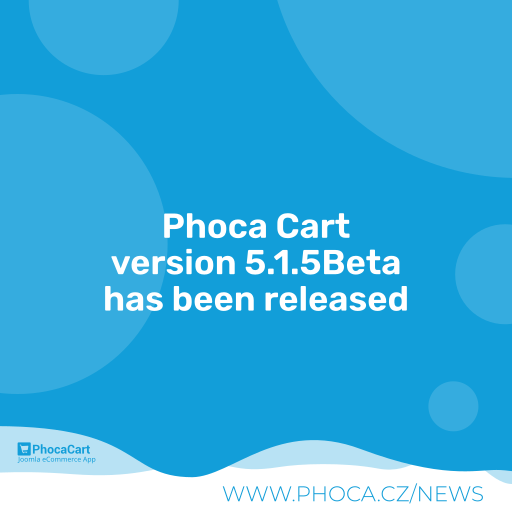
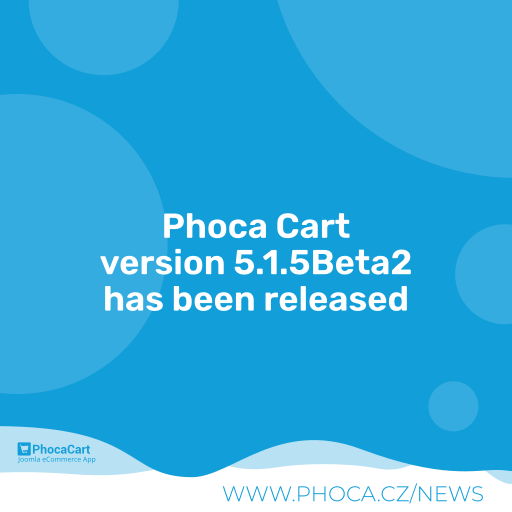
5.1.5Beta2

Changed region(s): [[0.1875, 0.4688, 0.8125, 0.5625]]

diff --git a/media/js/phoca/jquery.phocaattribute.min.js b/media/js/phoca/jquery.phocaattribute.min.js
@@ -1,1 +1,1 @@
-function phChangeAttributeType(e){var t=(e=void 0!==e?".phj"+e:"")+".phjProductAttribute";jQuery(e+".phjCleanAttribute").remove(),jQuery(t).each(function(){let a="",i,r="#phItemAttribute"+jQuery(this).data("attribute-id-name"),u="#phItemHiddenAttribute"+jQuery(this).data("attribute-id-name");var e="#phItemBoxAttribute"+jQuery(this).data("attribute-id-name");let s=jQuery(this).data("attribute-type");var d=jQuery(this).data("type-view");let h=jQuery(this).data("type-icon"),n=jQuery(this).data("required");if(3==s?a="phSelectBoxImage":2==s?a="phSelectBoxButton":13==s&&(a="phSelectBoxText"),""!=a){i=u+" ."+a;let t=jQuery(r).attr("name");var l=jQuery('<input type="hidden" name="'+t+'">');l.val(jQuery(r).val()),l.insertAfter(jQuery(r)),jQuery(u).css("display","block"),jQuery(e).css({display:"visible",position:"absolute",clip:"rect(0,0,0,0)"}),jQuery(e).addClass("phj"+d+" phjCleanAttribute"),jQuery(r+" option").each(function(){if(""!=jQuery(this).val()){let e="";3==s?e=jQuery('<div class="'+a+" "+h+'" data-value="'+jQuery(this).val()+'" data-value-alias="'+jQuery(this).data("value-alias")+'" title="'+jQuery(this).text()+'"><img src="'+jQuery(this).data("image")+'" alt="'+jQuery(this).text()+'" /></div>'):2==s?e=jQuery('<div class="'+a+" "+h+" color-"+jQuery(this).data("color").replace("#","")+'" style="background-color:'+jQuery(this).data("color")+'" data-value="'+jQuery(this).val()+'" data-value-alias="'+jQuery(this).data("value-alias")+'" title="'+jQuery(this).text()+'">&nbsp;</div>'):13==s&&(e=jQuery('<div class="'+a+" "+h+'" data-value="'+jQuery(this).val()+'" data-value-alias="'+jQuery(this).data("value-alias")+'" title="'+jQuery(this).text()+'">'+jQuery(this).text()+"</div>")),jQuery(this).is(":selected")&&e.addClass("on"),jQuery(u).append(e)}}),jQuery(i).on("click",function(e){if(e.preventDefault(),jQuery(this).hasClass("on")){if(1==n)return e.preventDefault(),!1;jQuery(this).removeClass("on"),jQuery('input[name="'+t+'"]').val(""),jQuery(r).val("").change()}else jQuery(i).removeClass("on"),jQuery(this).addClass("on"),jQuery('input[name="'+t+'"]').val(jQuery(this).data("value")),jQuery(r).val(jQuery(this).data("value")).change()})}})}function phAjaxChangeAttributeData(e,t,a,i){var r=Joomla.getOptions("phParamsPC"),u=Joomla.getOptions("phVarsPC").urlCheckoutChangeData,s=[],e=(s.id=e,s.id_item_price="#phItemPriceBox"+t+e,s.id_item_price_gift="#phItemPriceGiftBox"+t+e,s.id_item_stock="#phItemStockBox"+t+e,s.id_item_id="#phItemIdBox"+t+e,s.id_item_name="V"+t+"P"+e,s.product_add_to_cart_item=".phProductAddToCart"+t+e,s.product_add_to_cart_item_icon=".phProductAddToCartIcon"+t+e,s.view=t,s.method_price=r.dynamicChangePrice,s.method_stock=r.dynamicChangeStock,s.method_id=r.dynamicChangeId,s.method_image=r.dynamicChangeImage,s.task="change",s.type="changedata",s.class="ItemQuick"==t||"Pos"==t||"Item"==t?"ph-item-data-box":"ph-category-data-box","id="+s.id+"&"+a+"&"+i+"&class="+s.class+"&typeview="+s.view);phDoRequestMethods(u,e,s)}function phSetAttributeUrl(u){var e=Joomla.getOptions("phParamsPC"),t=Joomla.getOptions("phVarsPC");if(1!=e.dynamicChangeUrlAttributes)return!1;if("item"!=t.view)return!1;t=jQuery(location).attr("hash"),t=phReplaceAll("#","",t);let s=phUrlDeParam(t);t=".phjProductAttribute";let d="",h="",n="";var a=jQuery(t).closest("form").find("input[name=return]");let i="";void 0!==a.val()&&""!=a.val()&&(i=Base64.decode(a.val())),jQuery(t).each(function(){""!=d&&(d+="&");let e=this.id;var t=jQuery(this).data("alias");let a="",i="",r="#phItemHiddenAttribute"+jQuery(this).data("attribute-id-name");1==u?(void 0!==jQuery(this).find(":selected").data("value-alias")&&(a=jQuery(this).find(":selected").data("value-alias"),d=d+"a["+jQuery(this).data("alias")+"]="+a),void 0!==jQuery(this).find(":input:checked").data("value-alias")&&(jQuery.each(jQuery(this).find(":input:checked"),function(){""!=i&&(i+=","),i+=jQuery(this).data("value-alias")}),""!=i)&&(d=d+"a["+jQuery(this).data("alias")+"]="+i)):(void 0!==s.a&&void 0!==t&&void 0!==s.a[t]?(d=d+"a["+jQuery(this).data("alias")+"]="+s.a[t],void 0===(t=s.a[t].split(","))&&0==t.length||(jQuery("#"+e+" option").removeAttr("selected"),jQuery(r+" div").removeClass("on"),jQuery("#"+e+" input").removeAttr("checked"),jQuery(t).each(function(){jQuery("#"+e+" option[data-value-alias='"+this+"']").attr("selected","selected"),jQuery(r+" div[data-value-alias='"+this+"']").addClass("on"),jQuery("#"+e+" input[data-value-alias='"+this+"']").attr("checked","checked"),jQuery("#"+e+" input[data-value-alias='"+this+"']").parent().addClass("active")}))):(void 0!==jQuery(this).find(":selected").data("value-alias")&&(a=jQuery(this).find(":selected").data("value-alias"),d=d+"a["+jQuery(this).data("alias")+"]="+a),void 0!==jQuery(this).find(":input:checked").data("value-alias")&&(jQuery.each(jQuery(this).find(":input:checked"),function(){""!=i&&(i+=","),i+=jQuery(this).data("value-alias")}),""!=i)&&(d=d+"a["+jQuery(this).data("alias")+"]="+i)),h=jQuery(this).data("type-view"),n=jQuery(this).data("product-id"))}),(0!=e.dynamicChangePrice||0!=e.dynamicChangeStock||0!=e.dynamicChangeId||0!=e.dynamicChangeImage&&1!=e.dynamicChangeImage)&&(t=".phjAddToCartV"+h+"P"+n,e=jQuery(t).find("select").serialize(),t=jQuery(t).find(":checkbox").serialize(),phAjaxChangeAttributeData(n,h,e,t)),d.lastIndexOf("&")==d.length-1&&(d=d.slice(0,-1)),(0==u&&""!=d||1==u)&&(d="#"+d,""!=i&&a.val(Base64.encode(i+d)),window.history.pushState({},"",d))}jQuery(document).ready(function(){phChangeAttributeType(),phSetAttributeUrl(0);jQuery(document).on("change","select.phjProductAttribute",function(e){var t=Joomla.getOptions("phParamsPC");if(0==t.dynamicChangePrice&&0==t.dynamicChangeStock&&0==t.dynamicChangeId&&(0==t.dynamicChangeImage||1==t.dynamicChangeImage))return 1==t.dynamicChangeUrlAttributes&&phSetAttributeUrl(1),!1;var t=jQuery(this).data("type-view"),a=jQuery(this).data("product-id"),i=".phjAddToCartV"+t+"P"+a;phAjaxChangeAttributeData(a,t,jQuery(i).find("select").serialize(),jQuery(i).find(":checkbox").serialize()),phSetAttributeUrl(1)});var e=".ph-checkbox-attribute.phjProductAttribute";jQuery(document).on("click",e,function(e){var t=Joomla.getOptions("phParamsPC");if("LABEL"!==e.target.tagName.toUpperCase()){if("svg"==t.theme||"svg"==t.iconType){if("SVG"===e.target.tagName.toUpperCase()||"IMG"===e.target.tagName.toUpperCase())return}else if(!("bs4"!=t.theme&&"bs5"!=t.theme||"SPAN"!==e.target.tagName.toUpperCase()&&"IMG"!==e.target.tagName.toUpperCase()))return;var t=jQuery(this).data("required"),a="#"+jQuery(this).attr("id")+" input:checked",a=jQuery(a).length;if(t&&0==a)return jQuery(e.target).parent().addClass("active"),e.preventDefault(),!1;t="#"+jQuery(this).attr("id")+" input[type='checkbox']",a=jQuery(t);0<a.length&&a.each(function(e){var t=jQuery(this).parent();jQuery(this).is(":checked")?t.addClass("active"):t.removeClass("active")})}}),jQuery(document).on("click",e,function(e){var t=Joomla.getOptions("phParamsPC");if(0!=t.dynamicChangePrice||0!=t.dynamicChangeStock||0!=t.dynamicChangeId||0!=t.dynamicChangeImage&&1!=t.dynamicChangeImage){if("LABEL"!==e.target.tagName.toUpperCase()){if("svg"==t.theme||"svg"==t.iconType){if("SVG"===e.target.tagName.toUpperCase()||"IMG"===e.target.tagName.toUpperCase())return}else if(!("bs4"!=t.theme&&"bs5"!=t.theme||"SPAN"!==e.target.tagName.toUpperCase()&&"IMG"!==e.target.tagName.toUpperCase()))return;var e=jQuery(this).data("product-id"),a=jQuery(this).data("type-view"),i=".phjAddToCartV"+a+"P"+e;phAjaxChangeAttributeData(e,a,jQuery(i).find("select").serialize(),jQuery(i).find(":checkbox").serialize()),phSetAttributeUrl(1)}}else 1==t.dynamicChangeUrlAttributes&&phSetAttributeUrl(1)}),jQuery(".phAOGift").on("input",function(){var t="."+jQuery(this).data("type");if(".phAOGiftType"==t){var a=jQuery(this).data("title"),a=(jQuery(".phAOGiftTitle").text(a),jQuery(this).data("image")),a=(jQuery(".phAOGiftImage").attr("src",a),jQuery(this).data("date"));jQuery(".phAOGiftDate").text(a);let e=jQuery(this).data("description");""!=e&&(e=Base64.decode(e)),jQuery(".phAOGiftDescription").html(e);a=jQuery(this).data("class-name");jQuery(t).attr("class","phAOGiftType ph-gift-voucher-box "+a)}else jQuery(t).text(jQuery(this).val())})});
+function phChangeAttributeType(e){var t=(e=void 0!==e?".phj"+e:"")+".phjProductAttribute";jQuery(e+".phjCleanAttribute").remove(),jQuery(t).each(function(){let a="",i,r="#phItemAttribute"+jQuery(this).data("attribute-id-name"),u="#phItemHiddenAttribute"+jQuery(this).data("attribute-id-name");var e="#phItemBoxAttribute"+jQuery(this).data("attribute-id-name");let s=jQuery(this).data("attribute-type");var d=jQuery(this).data("type-view");let h=jQuery(this).data("type-icon"),n=jQuery(this).data("required");if(3==s?a="phSelectBoxImage":2==s?a="phSelectBoxButton":13==s&&(a="phSelectBoxText"),""!=a){i=u+" ."+a;let t=jQuery(r).attr("name");var l=jQuery('<input type="hidden" name="'+t+'">');l.val(jQuery(r).val()),l.insertAfter(jQuery(r)),jQuery(u).css("display","block"),jQuery(e).css({display:"visible",position:"absolute",clip:"rect(0,0,0,0)"}),jQuery(e).addClass("phj"+d+" phjCleanAttribute"),jQuery(r+" option").each(function(){if(""!=jQuery(this).val()){let e="";3==s?e=jQuery('<div class="'+a+" "+h+'" data-value="'+jQuery(this).val()+'" data-value-alias="'+jQuery(this).data("value-alias")+'" title="'+jQuery(this).text()+'"><img src="'+jQuery(this).data("image")+'" alt="'+jQuery(this).text()+'" /></div>'):2==s?e=jQuery('<div class="'+a+" "+h+" color-"+jQuery(this).data("color").replace("#","")+'" style="background-color:'+jQuery(this).data("color")+'" data-value="'+jQuery(this).val()+'" data-value-alias="'+jQuery(this).data("value-alias")+'" title="'+jQuery(this).text()+'">&nbsp;</div>'):13==s&&(e=jQuery('<div class="'+a+" "+h+'" data-value="'+jQuery(this).val()+'" data-value-alias="'+jQuery(this).data("value-alias")+'" title="'+jQuery(this).text()+'">'+jQuery(this).data("text")+"</div>")),jQuery(this).is(":selected")&&e.addClass("on"),jQuery(u).append(e)}}),jQuery(i).on("click",function(e){if(e.preventDefault(),jQuery(this).hasClass("on")){if(1==n)return e.preventDefault(),!1;jQuery(this).removeClass("on"),jQuery('input[name="'+t+'"]').val(""),jQuery(r).val("").change()}else jQuery(i).removeClass("on"),jQuery(this).addClass("on"),jQuery('input[name="'+t+'"]').val(jQuery(this).data("value")),jQuery(r).val(jQuery(this).data("value")).change()})}})}function phAjaxChangeAttributeData(e,t,a,i){var r=Joomla.getOptions("phParamsPC"),u=Joomla.getOptions("phVarsPC").urlCheckoutChangeData,s=[],e=(s.id=e,s.id_item_price="#phItemPriceBox"+t+e,s.id_item_price_gift="#phItemPriceGiftBox"+t+e,s.id_item_stock="#phItemStockBox"+t+e,s.id_item_id="#phItemIdBox"+t+e,s.id_item_name="V"+t+"P"+e,s.product_add_to_cart_item=".phProductAddToCart"+t+e,s.product_add_to_cart_item_icon=".phProductAddToCartIcon"+t+e,s.view=t,s.method_price=r.dynamicChangePrice,s.method_stock=r.dynamicChangeStock,s.method_id=r.dynamicChangeId,s.method_image=r.dynamicChangeImage,s.task="change",s.type="changedata",s.class="ItemQuick"==t||"Pos"==t||"Item"==t?"ph-item-data-box":"ph-category-data-box","id="+s.id+"&"+a+"&"+i+"&class="+s.class+"&typeview="+s.view);phDoRequestMethods(u,e,s)}function phSetAttributeUrl(u){var e=Joomla.getOptions("phParamsPC"),t=Joomla.getOptions("phVarsPC");if(1!=e.dynamicChangeUrlAttributes)return!1;if("item"!=t.view)return!1;t=jQuery(location).attr("hash"),t=phReplaceAll("#","",t);let s=phUrlDeParam(t);t=".phjProductAttribute";let d="",h="",n="";var a=jQuery(t).closest("form").find("input[name=return]");let i="";void 0!==a.val()&&""!=a.val()&&(i=Base64.decode(a.val())),jQuery(t).each(function(){""!=d&&(d+="&");let e=this.id;var t=jQuery(this).data("alias");let a="",i="",r="#phItemHiddenAttribute"+jQuery(this).data("attribute-id-name");1==u?(void 0!==jQuery(this).find(":selected").data("value-alias")&&(a=jQuery(this).find(":selected").data("value-alias"),d=d+"a["+jQuery(this).data("alias")+"]="+a),void 0!==jQuery(this).find(":input:checked").data("value-alias")&&(jQuery.each(jQuery(this).find(":input:checked"),function(){""!=i&&(i+=","),i+=jQuery(this).data("value-alias")}),""!=i)&&(d=d+"a["+jQuery(this).data("alias")+"]="+i)):(void 0!==s.a&&void 0!==t&&void 0!==s.a[t]?(d=d+"a["+jQuery(this).data("alias")+"]="+s.a[t],void 0===(t=s.a[t].split(","))&&0==t.length||(jQuery("#"+e+" option").removeAttr("selected"),jQuery(r+" div").removeClass("on"),jQuery("#"+e+" input").removeAttr("checked"),jQuery(t).each(function(){jQuery("#"+e+" option[data-value-alias='"+this+"']").attr("selected","selected"),jQuery(r+" div[data-value-alias='"+this+"']").addClass("on"),jQuery("#"+e+" input[data-value-alias='"+this+"']").attr("checked","checked"),jQuery("#"+e+" input[data-value-alias='"+this+"']").parent().addClass("active")}))):(void 0!==jQuery(this).find(":selected").data("value-alias")&&(a=jQuery(this).find(":selected").data("value-alias"),d=d+"a["+jQuery(this).data("alias")+"]="+a),void 0!==jQuery(this).find(":input:checked").data("value-alias")&&(jQuery.each(jQuery(this).find(":input:checked"),function(){""!=i&&(i+=","),i+=jQuery(this).data("value-alias")}),""!=i)&&(d=d+"a["+jQuery(this).data("alias")+"]="+i)),h=jQuery(this).data("type-view"),n=jQuery(this).data("product-id"))}),(0!=e.dynamicChangePrice||0!=e.dynamicChangeStock||0!=e.dynamicChangeId||0!=e.dynamicChangeImage&&1!=e.dynamicChangeImage)&&(t=".phjAddToCartV"+h+"P"+n,e=jQuery(t).find("select").serialize(),t=jQuery(t).find(":checkbox").serialize(),phAjaxChangeAttributeData(n,h,e,t)),d.lastIndexOf("&")==d.length-1&&(d=d.slice(0,-1)),(0==u&&""!=d||1==u)&&(d="#"+d,""!=i&&a.val(Base64.encode(i+d)),window.history.pushState({},"",d))}jQuery(document).ready(function(){phChangeAttributeType(),phSetAttributeUrl(0);jQuery(document).on("change","select.phjProductAttribute",function(e){var t=Joomla.getOptions("phParamsPC");if(0==t.dynamicChangePrice&&0==t.dynamicChangeStock&&0==t.dynamicChangeId&&(0==t.dynamicChangeImage||1==t.dynamicChangeImage))return 1==t.dynamicChangeUrlAttributes&&phSetAttributeUrl(1),!1;var t=jQuery(this).data("type-view"),a=jQuery(this).data("product-id"),i=".phjAddToCartV"+t+"P"+a;phAjaxChangeAttributeData(a,t,jQuery(i).find("select").serialize(),jQuery(i).find(":checkbox").serialize()),phSetAttributeUrl(1)});var e=".ph-checkbox-attribute.phjProductAttribute";jQuery(document).on("click",e,function(e){var t=Joomla.getOptions("phParamsPC");if("LABEL"!==e.target.tagName.toUpperCase()){if("svg"==t.theme||"svg"==t.iconType){if("SVG"===e.target.tagName.toUpperCase()||"IMG"===e.target.tagName.toUpperCase())return}else if(!("bs4"!=t.theme&&"bs5"!=t.theme||"SPAN"!==e.target.tagName.toUpperCase()&&"IMG"!==e.target.tagName.toUpperCase()))return;var t=jQuery(this).data("required"),a="#"+jQuery(this).attr("id")+" input:checked",a=jQuery(a).length;if(t&&0==a)return jQuery(e.target).parent().addClass("active"),e.preventDefault(),!1;t="#"+jQuery(this).attr("id")+" input[type='checkbox']",a=jQuery(t);0<a.length&&a.each(function(e){var t=jQuery(this).parent();jQuery(this).is(":checked")?t.addClass("active"):t.removeClass("active")})}}),jQuery(document).on("click",e,function(e){var t=Joomla.getOptions("phParamsPC");if(0!=t.dynamicChangePrice||0!=t.dynamicChangeStock||0!=t.dynamicChangeId||0!=t.dynamicChangeImage&&1!=t.dynamicChangeImage){if("LABEL"!==e.target.tagName.toUpperCase()){if("svg"==t.theme||"svg"==t.iconType){if("SVG"===e.target.tagName.toUpperCase()||"IMG"===e.target.tagName.toUpperCase())return}else if(!("bs4"!=t.theme&&"bs5"!=t.theme||"SPAN"!==e.target.tagName.toUpperCase()&&"IMG"!==e.target.tagName.toUpperCase()))return;var e=jQuery(this).data("product-id"),a=jQuery(this).data("type-view"),i=".phjAddToCartV"+a+"P"+e;phAjaxChangeAttributeData(e,a,jQuery(i).find("select").serialize(),jQuery(i).find(":checkbox").serialize()),phSetAttributeUrl(1)}}else 1==t.dynamicChangeUrlAttributes&&phSetAttributeUrl(1)}),jQuery(".phAOGift").on("input",function(){var t="."+jQuery(this).data("type");if(".phAOGiftType"==t){var a=jQuery(this).data("title"),a=(jQuery(".phAOGiftTitle").text(a),jQuery(this).data("image")),a=(jQuery(".phAOGiftImage").attr("src",a),jQuery(this).data("date"));jQuery(".phAOGiftDate").text(a);let e=jQuery(this).data("description");""!=e&&(e=Base64.decode(e)),jQuery(".phAOGiftDescription").html(e);a=jQuery(this).data("class-name");jQuery(t).attr("class","phAOGiftType ph-gift-voucher-box "+a)}else jQuery(t).text(jQuery(this).val())})});

diff --git a/media/js/phoca/jquery.phocaattribute.js b/media/js/phoca/jquery.phocaattribute.js
@@ -74,8 +74,9 @@ function phChangeAttributeType(typeView) {
 						phSBtn = jQuery('<div class="'+ phClass +' '+ phTypeIcon + ' color-' + jQuery(this).data('color').replace('#', '')  +'" style="background-color:' + jQuery(this).data('color') +'" data-value="'+ jQuery(this).val() +'" data-value-alias="'+ jQuery(this).data('value-alias') +'" title="'+ jQuery(this).text() +'">'+ '&nbsp;' +'</div>');
 
 					} else if (phType == 13) {
-						// Text
-						phSBtn = jQuery('<div class="'+ phClass	+' '+ phTypeIcon +'" data-value="'+ jQuery(this).val() +'" data-value-alias="'+ jQuery(this).data('value-alias') +'" title="'+ jQuery(this).text() +'">' + jQuery(this).text() + '</div>');
+						// Text jQuery(this).text() - jQuery(this).data('text') 
+						// Suffix will be displayed in title attribute (hover) not in html
+						phSBtn = jQuery('<div class="'+ phClass	+' '+ phTypeIcon +'" data-value="'+ jQuery(this).val() +'" data-value-alias="'+ jQuery(this).data('value-alias') +'" title="'+ jQuery(this).text() +'">' + jQuery(this).data('text') + '</div>'); 
 					}
 
 

diff --git a/README.MD b/README.MD
@@ -132,7 +132,7 @@ Phoca Cart is e-commerce extension - powerful shopping cart for Joomla! CMS. Pho
 
 ## Version (Joomla! 5.x)
 
-5.1.5Beta
+5.1.5Beta2
 
 
 
